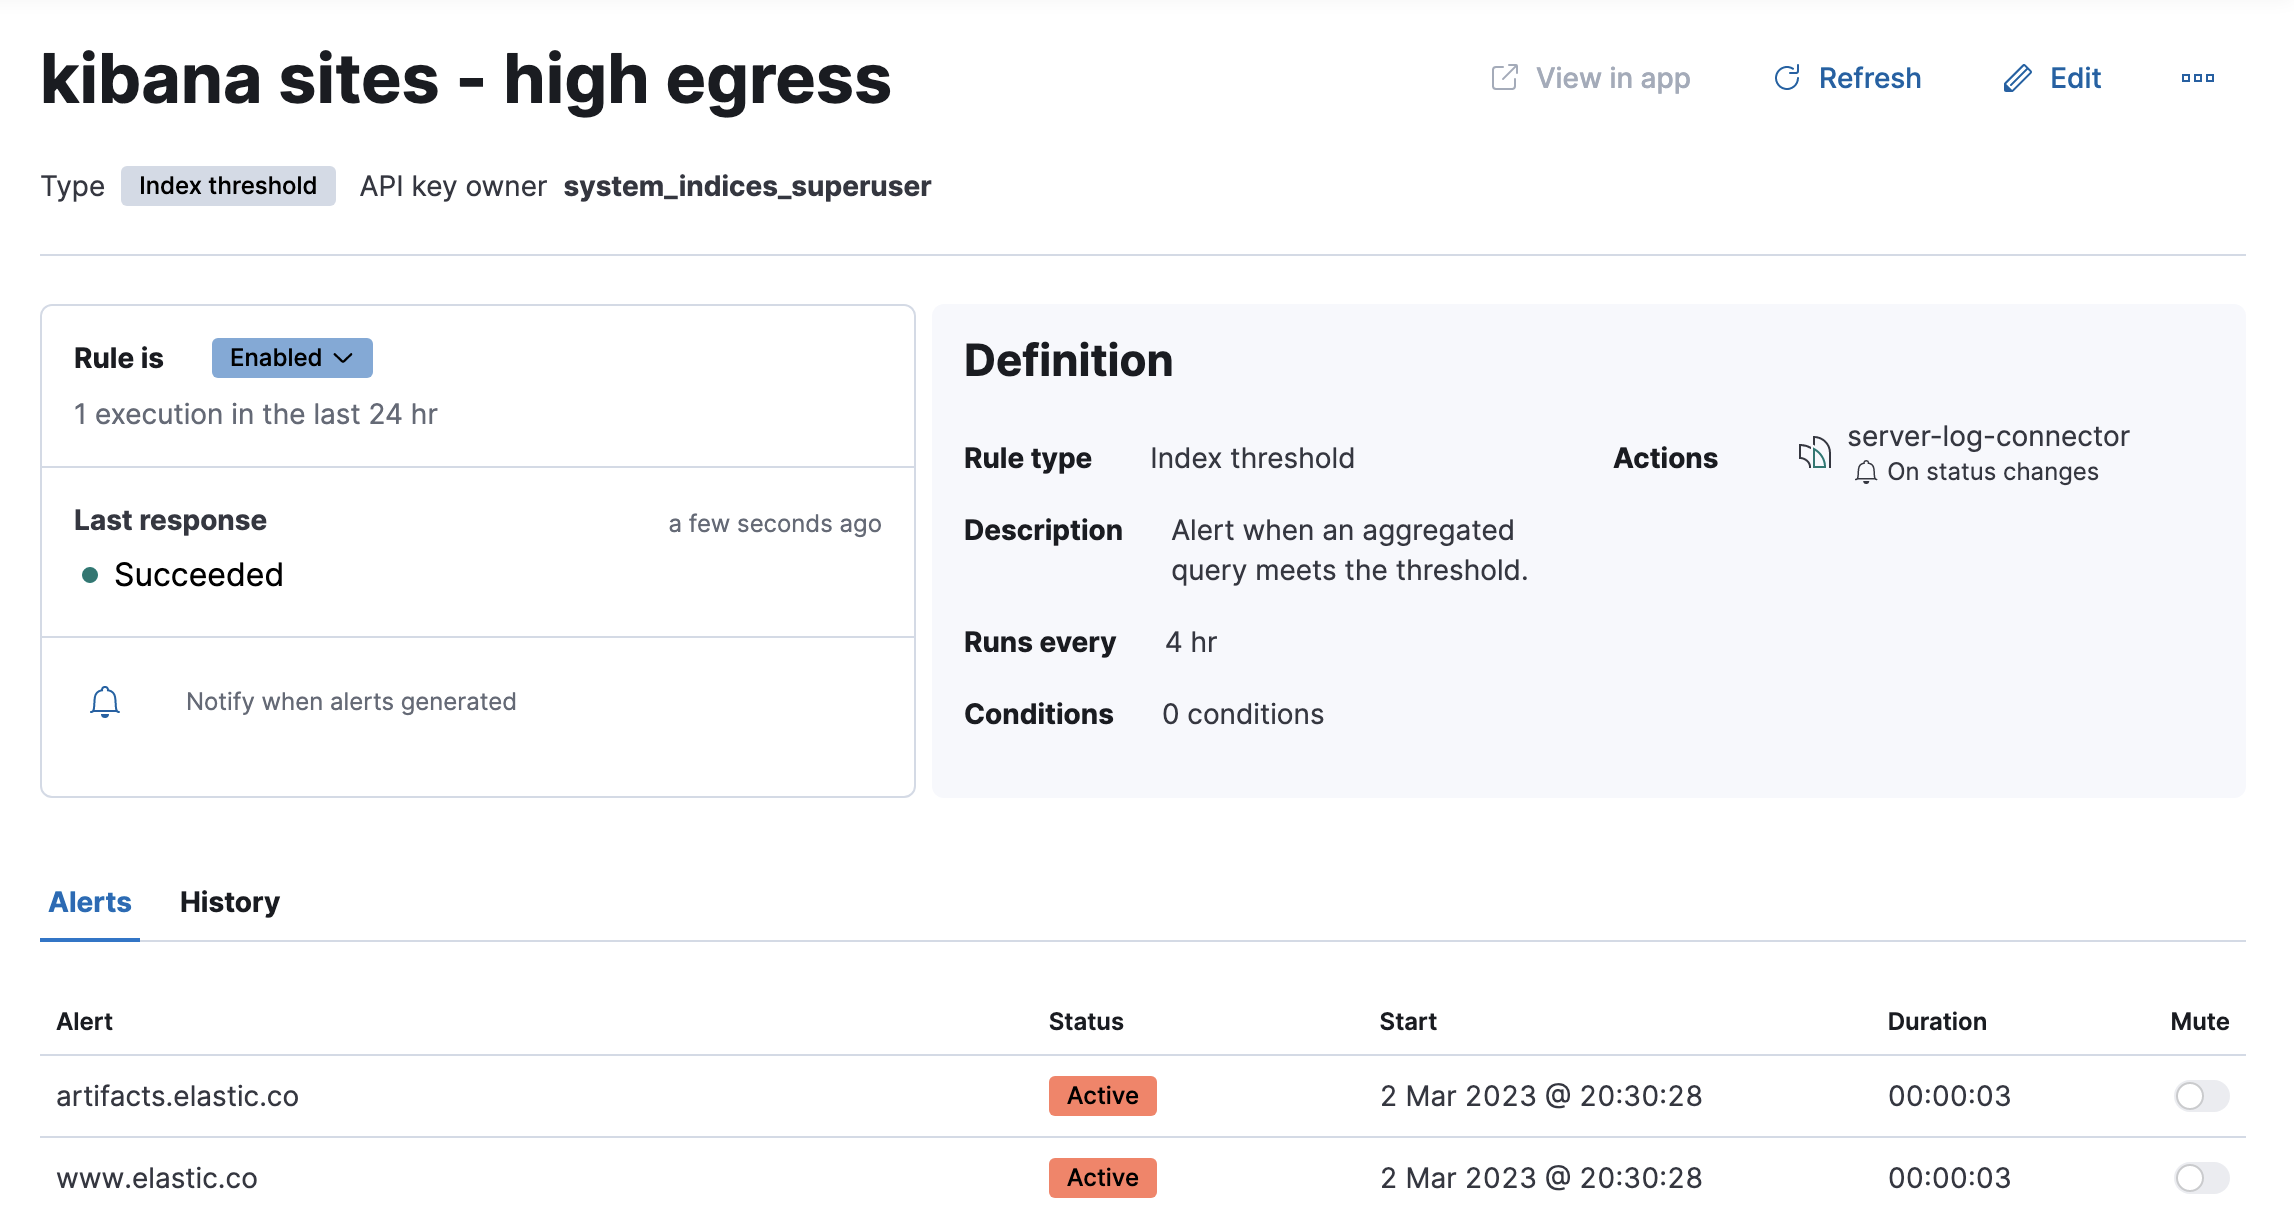
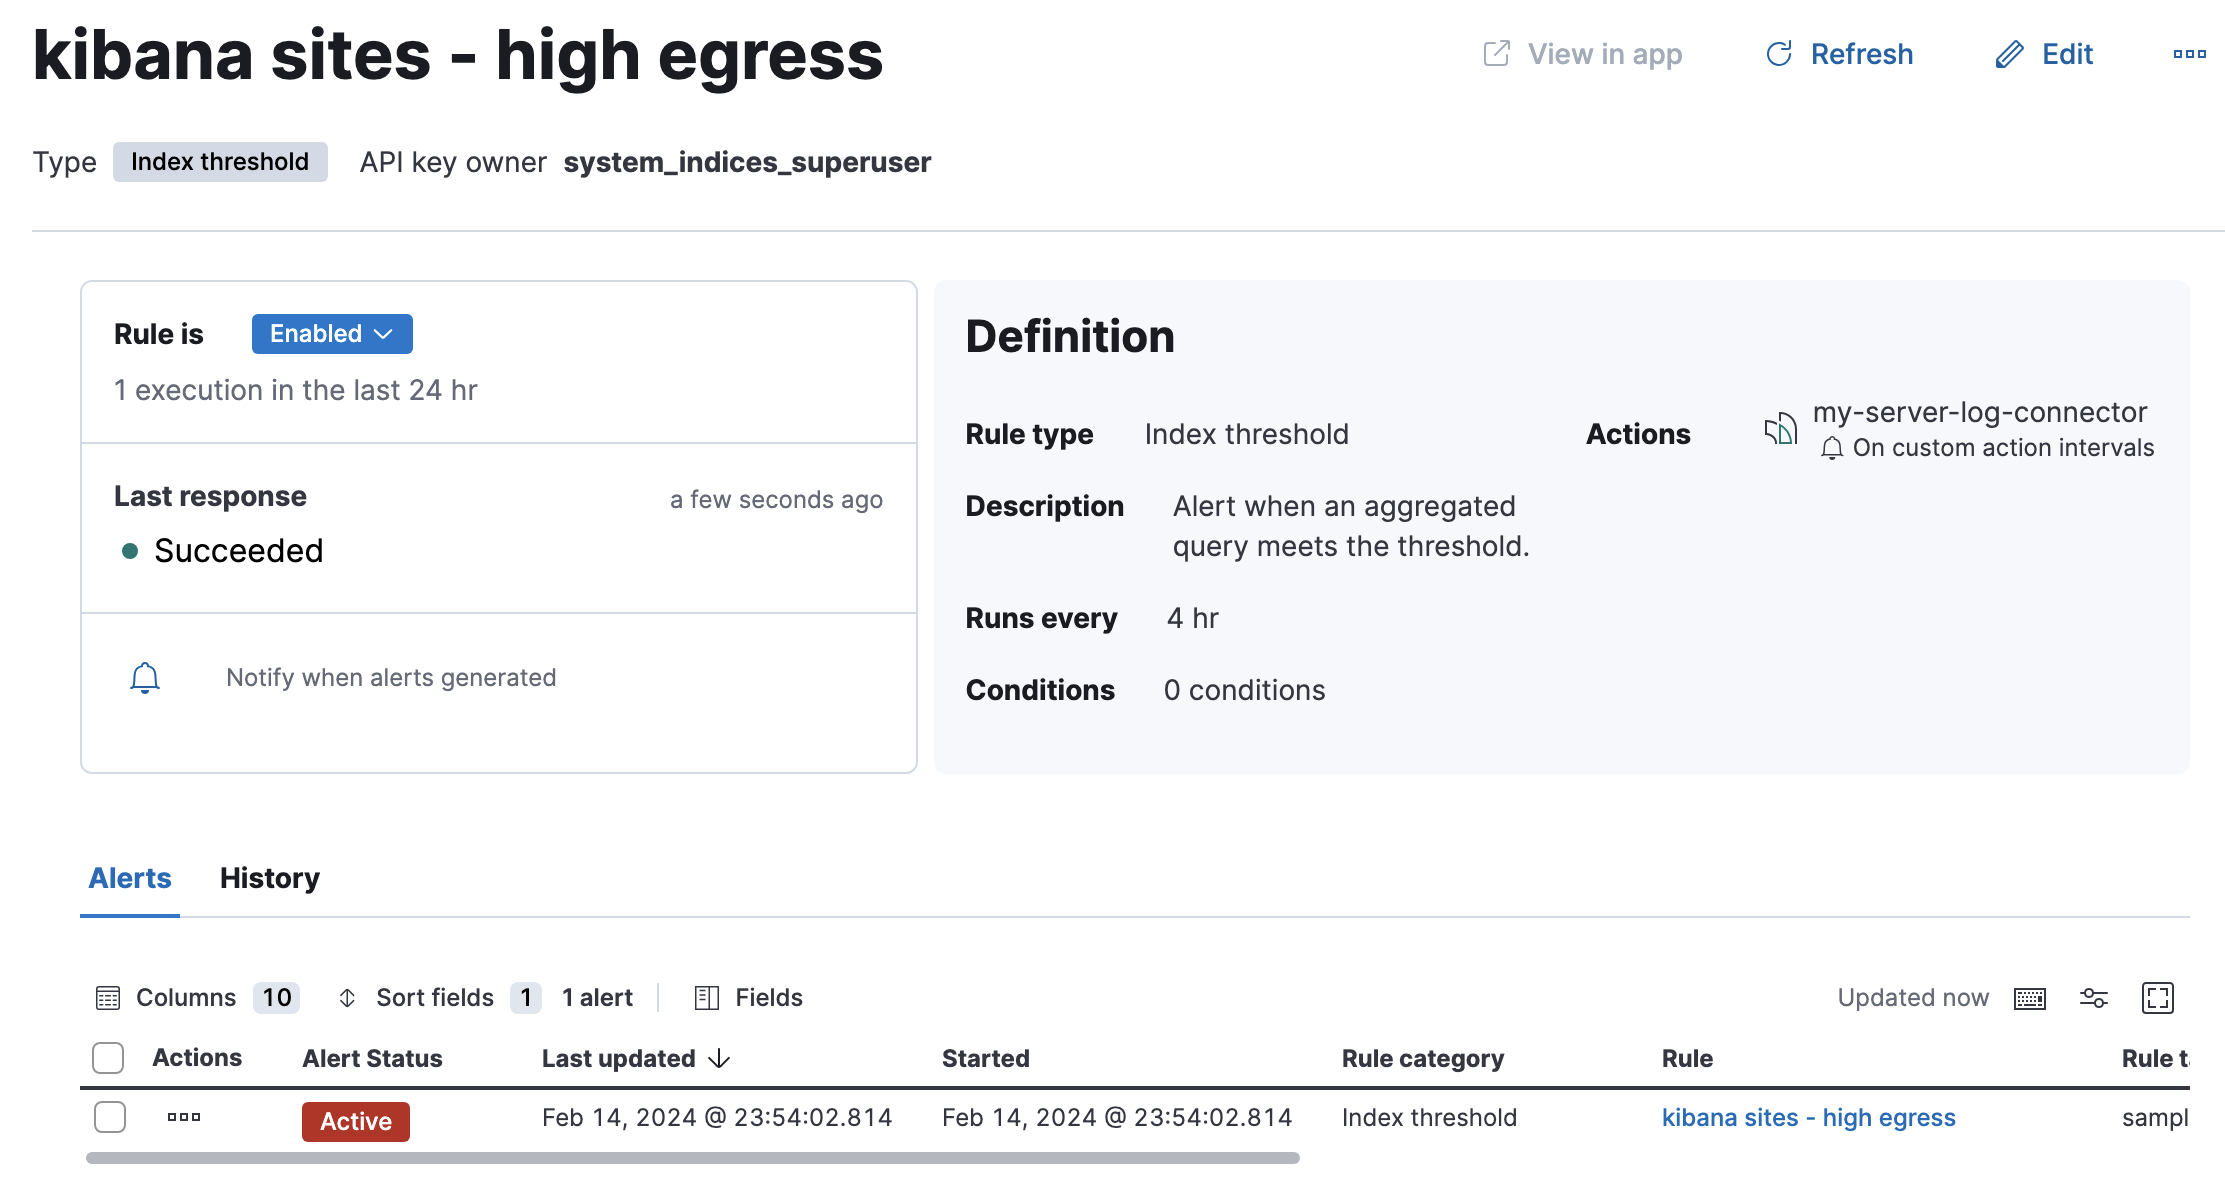
[DOCS] Add description for untracked alert status (#176974)

diff --git a/x-pack/test/screenshot_creation/apps/response_ops_docs/stack_alerting/list_view.ts b/x-pack/test/screenshot_creation/apps/response_ops_docs/stack_alerting/list_view.ts
@@ -57,14 +57,6 @@ export default function ({ getService, getPageObjects }: FtrProviderContext) {
         1400,
         1024
       );
-      const actionsButton = await testSubjects.find('ruleActionsButton');
-      await actionsButton.click();
-      await commonScreenshots.takeScreenshot(
-        'rule-details-disabling',
-        screenshotDirectories,
-        1400,
-        1024
-      );
     });
   });
 }
